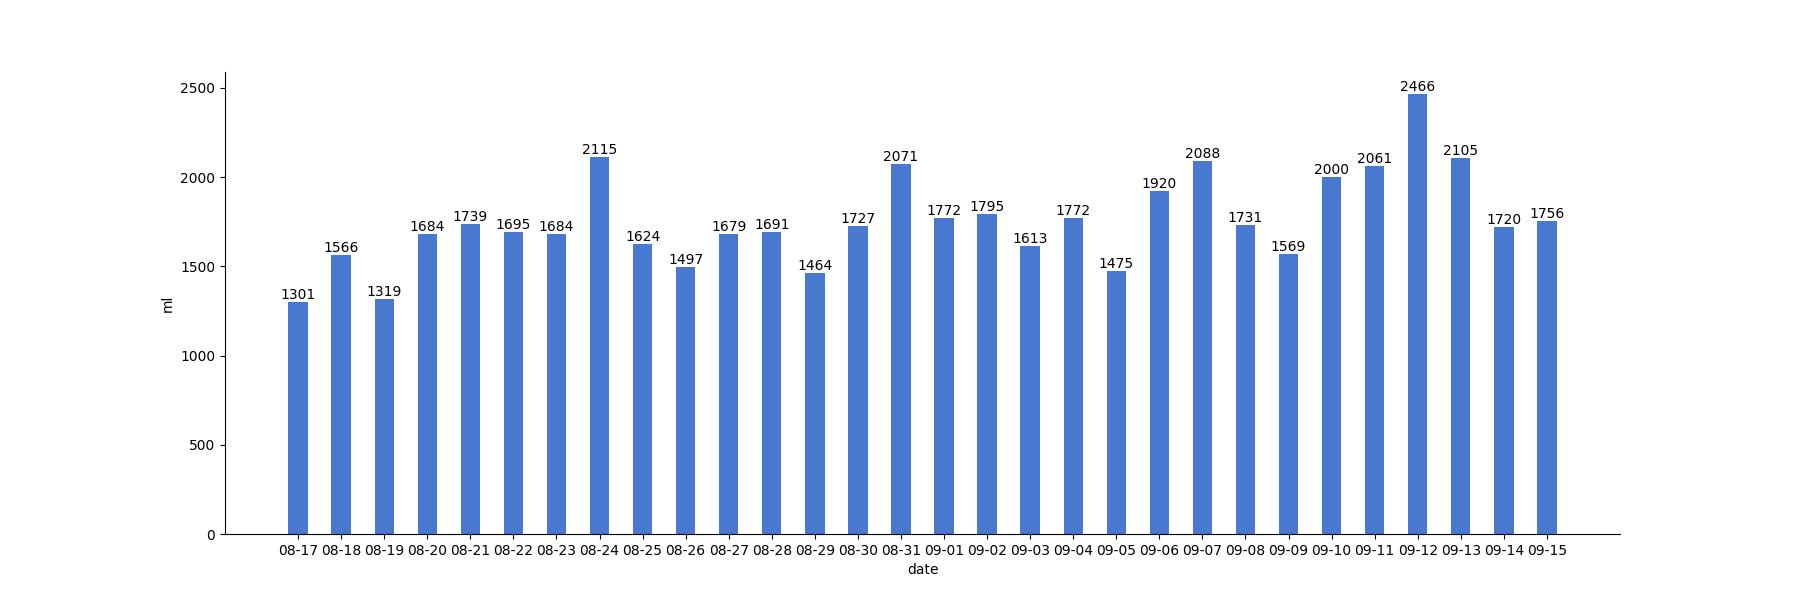
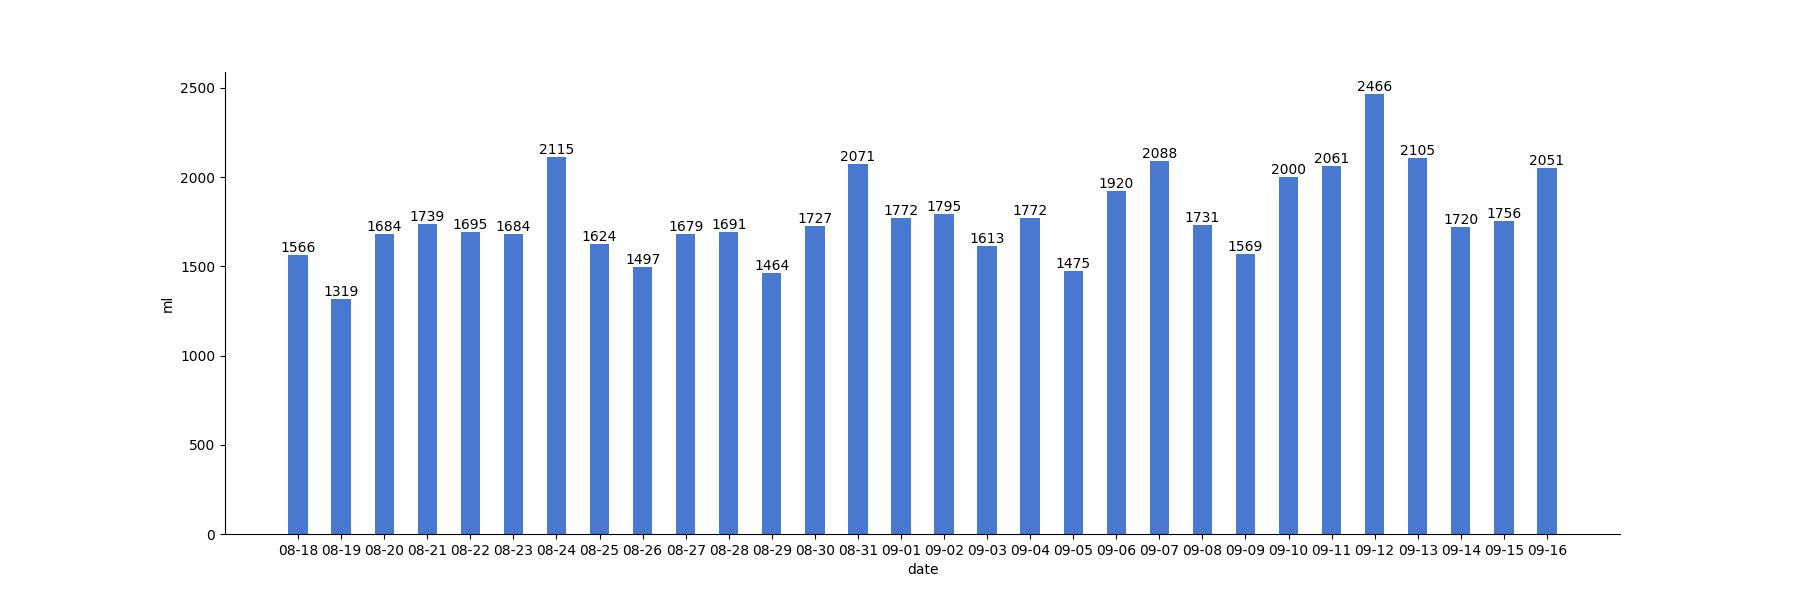
generated readme

diff --git a/README.md b/README.md
@@ -1,17 +1,3 @@
-# 今日饮水数据
-
-<div align=center>
-<img src="today.jpg" style="zoom: 100%;" />
-
-| 今日总饮水量 | 每小时平均饮水量 |
-| :----: | :----: |
-| 2051 | 128 |
-</div>
-
-| 日期 | 00:03:22 | 00:19:49 | 07:58:46 | 08:15:40 | 09:15:27 | 10:09:04 | 11:50:41 | 12:16:37 | 13:04:38 | 13:55:48 | 14:57:42 | 17:16:09 | 18:06:02 | 19:53:39 | 20:38:03 | 21:06:10 | 22:06:21 | 22:43:46 | 23:25:29 | 23:39:35 |
-| :----: | :----: | :----: | :----: | :----: | :----: | :----: | :----: | :----: | :----: | :----: | :----: | :----: | :----: | :----: | :----: | :----: | :----: | :----: | :----: | :----: |
-| 2022-09-16 | 55 | 40 | 119 | 24 | 59 | 117 | 62 | 200 | 120 | 64 | 70 | 42 | 121 | 500 | 85 | 72 | 77 | 82 | 87 | 55 |
-
 # 近30日饮水数据
 
 <div align=center>
@@ -19,8 +5,12 @@
 
 | 总饮水量 | 日均饮水量 |
 | :----: | :----: |
-| 52699 | 1756 |
+| 53449 | 1781 |
 </div>
+
+| 日期 | all | 00:03:22 | 00:19:49 | 07:58:46 | 08:15:40 | 09:15:27 | 10:09:04 | 11:50:41 | 12:16:37 | 13:04:38 | 13:55:48 | 14:57:42 | 17:16:09 | 18:06:02 | 19:53:39 | 20:38:03 | 21:06:10 | 22:06:21 | 22:43:46 | 23:25:29 | 23:39:35 |
+| :----: | :----: | :----: | :----: | :----: | :----: | :----: | :----: | :----: | :----: | :----: | :----: | :----: | :----: | :----: | :----: | :----: | :----: | :----: | :----: | :----: | :----: |
+| 2022-09-16 | 2051 | 55 | 40 | 119 | 24 | 59 | 117 | 62 | 200 | 120 | 64 | 70 | 42 | 121 | 500 | 85 | 72 | 77 | 82 | 87 | 55 |
 
 | 日期 | all | 00:17:00 | 08:00:02 | 09:59:10 | 11:19:57 | 12:29:37 | 15:07:37 | 17:18:49 | 18:50:42 | 19:50:46 | 20:20:51 | 20:41:21 | 21:28:17 | 22:48:29 |
 | :----: | :----: | :----: | :----: | :----: | :----: | :----: | :----: | :----: | :----: | :----: | :----: | :----: | :----: | :----: |
@@ -141,8 +131,4 @@
 | 日期 | all | 00:52:09 | 01:42:06 | 03:01:12 | 03:17:41 | 04:27:49 | 05:46:12 | 06:16:58 | 07:21:48 | 08:09:12 | 17:18:01 | 18:01:55 | 18:32:37 | 21:32:39 | 22:31:52 | 23:33:05 | 23:58:35 |
 | :----: | :----: | :----: | :----: | :----: | :----: | :----: | :----: | :----: | :----: | :----: | :----: | :----: | :----: | :----: | :----: | :----: | :----: |
 | 2022-08-17 | 1301 | 200 | 75 | 99 | 62 | 80 | 85 | 66 | 92 | 55 | 55 | 54 | 64 | 124 | 69 | 58 | 63 |
-
-| 日期 | all | 00:56:08 | 01:30:13 | 02:24:06 | 03:41:05 | 04:43:08 | 05:31:23 | 06:29:07 | 06:59:56 | 09:07:54 | 16:50:57 | 19:22:37 | 22:30:59 |
-| :----: | :----: | :----: | :----: | :----: | :----: | :----: | :----: | :----: | :----: | :----: | :----: | :----: | :----: |
-| 2022-08-16 | 1235 | 200 | 41 | 32 | 113 | 89 | 69 | 200 | 61 | 77 | 112 | 200 | 41 |
 
